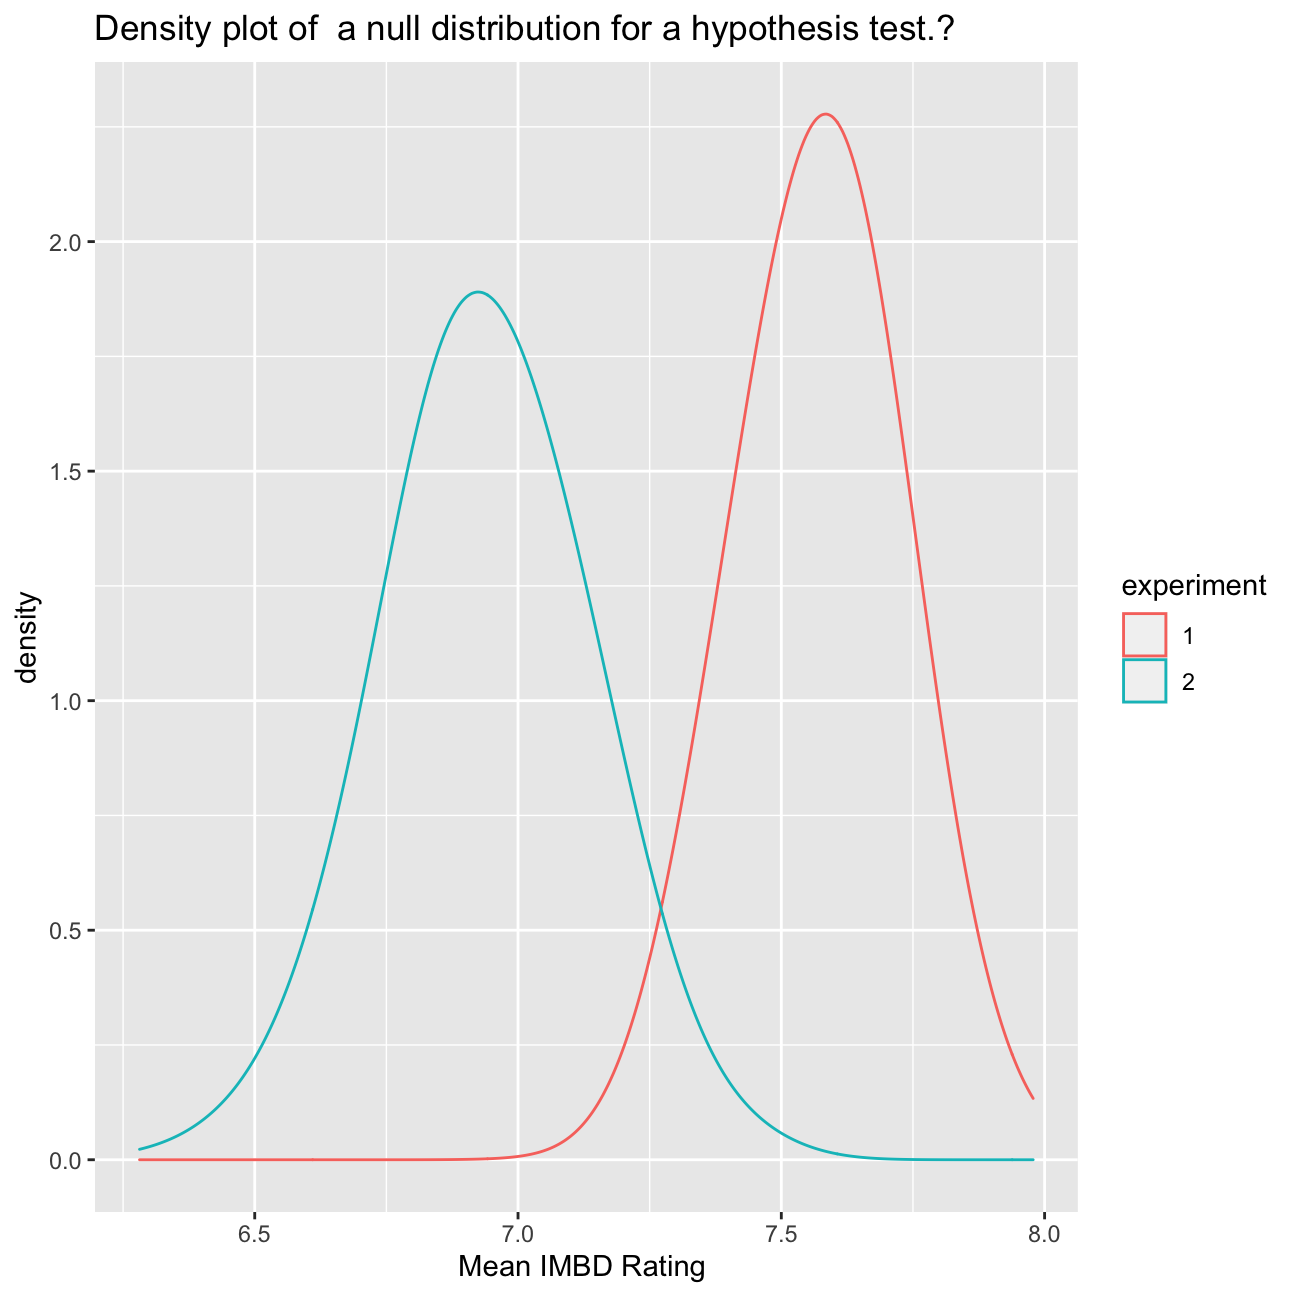
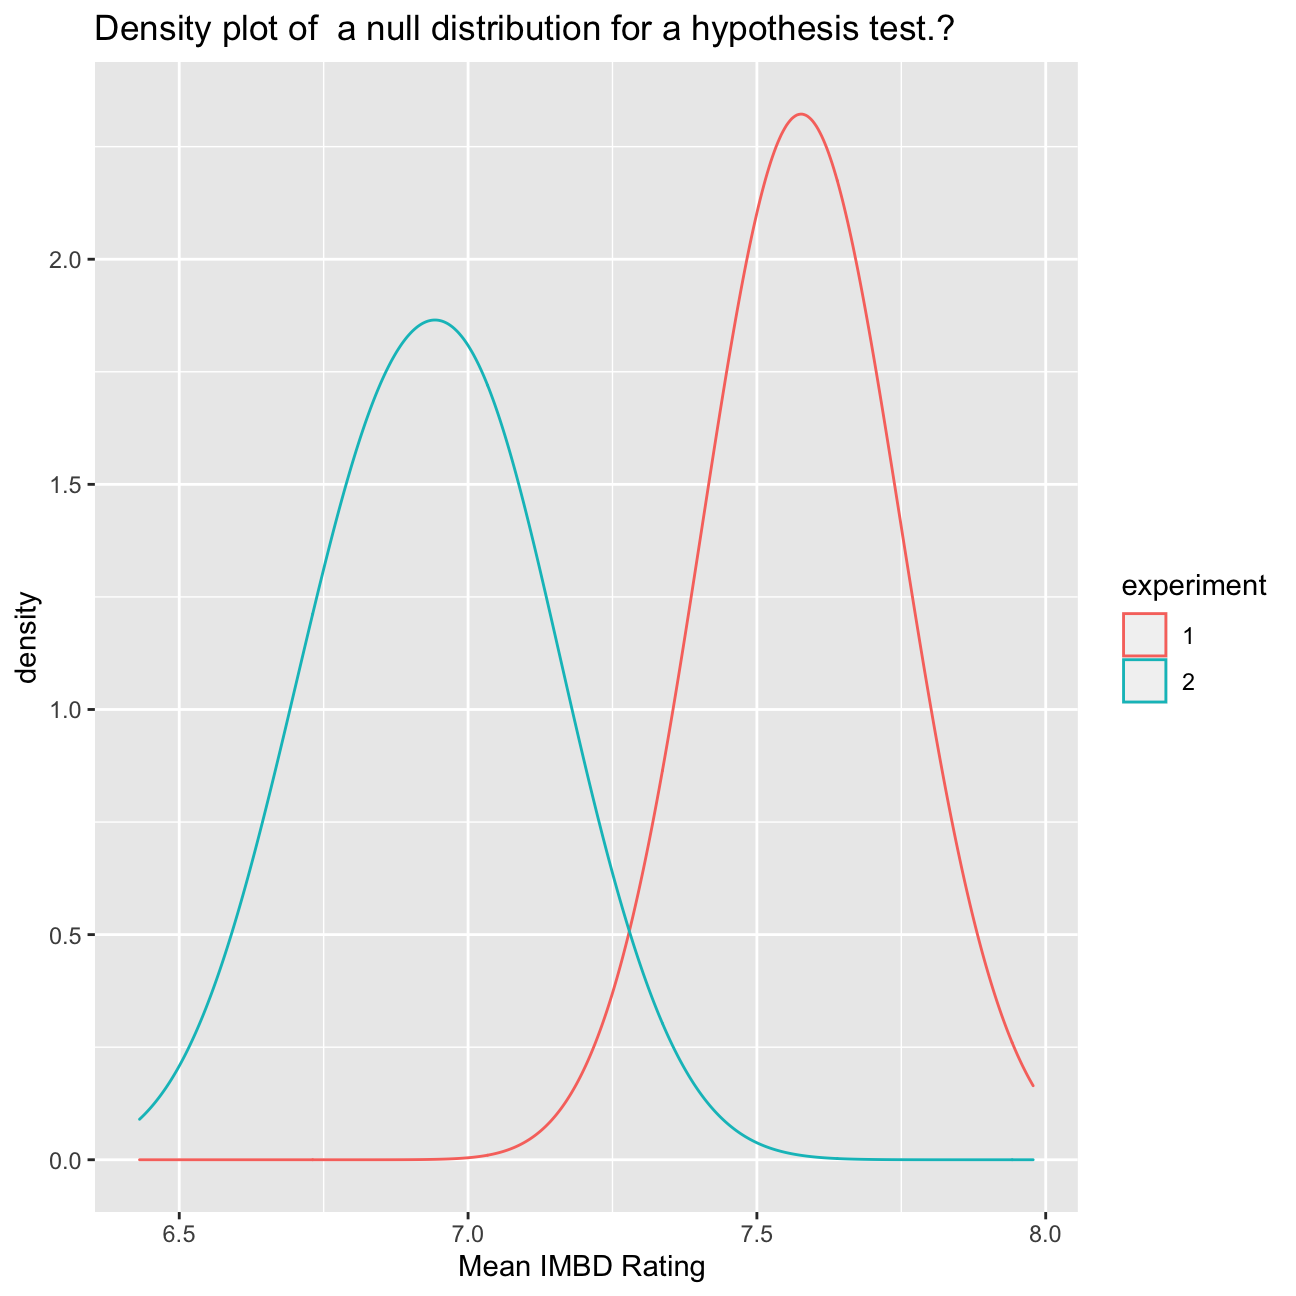
Upload

diff --git a/content/projects/project2/index.html b/content/projects/project2/index.html
@@ -1,6 +1,6 @@
 ---
-title: "Session 6: Homework 3"
-author: "Your name goes here"
+title: "IMDB Ratings"
+author: "Vincenz Mautner-Markhof"
 date: "2020-10-20"
 output:
   html_document:
@@ -14,16 +14,7 @@ output:
 
 
 
-<div id="imdb-ratings-differences-between-directors" class="section level1">
-<h1>IMDB ratings: Differences between directors</h1>
-<p>Recall the IMBD ratings data. I would like you to explore whether the mean IMDB rating for Steven Spielberg and Tim Burton are the same or not. I have already calculated the confidence intervals for the mean ratings of these two directors and as you can see they overlap.</p>
-<p><img src="/Users/vincenz/Public/my_website/images/directors.png" width="100%" style="display: block; margin: auto;" /></p>
-<p>First, I would like you to reproduce this graph. You may find <code>geom_errorbar()</code> and <code>geom_rect()</code> useful.</p>
-<p>In addition, you will run a hpothesis test. You should use both the <code>t.test</code> command and the <code>infer</code> package to simulate from a null distribution, where you assume zero difference between the two.</p>
-<blockquote>
-<p>Before anything, write down the null and alternative hypotheses, as well as the resulting test statistic and the associated t-stat or p-value. At the end of the day, what do you conclude?</p>
-</blockquote>
-<p>You can load the data and examine its structure</p>
+<p>In this analysis we will explore whether the mean IMDB rating for Steven Spielberg and Tim Burton are the same or not.</p>
 <pre class="r"><code>movies &lt;- read_csv(&quot;movies.csv&quot;)
 glimpse(movies)</code></pre>
 <pre><code>## Rows: 2,961
@@ -39,7 +30,6 @@ glimpse(movies)</code></pre>
 ## $ votes               &lt;dbl&gt; 886204, 793059, 418214, 995415, 1676169, 534658, …
 ## $ reviews             &lt;dbl&gt; 3777, 2843, 1934, 2425, 5312, 3917, 1752, 1752, 3…
 ## $ rating              &lt;dbl&gt; 7.9, 7.7, 7.0, 8.1, 9.0, 6.5, 8.7, 7.5, 8.5, 7.2,…</code></pre>
-<p>Your R code and analysis should go here. If you want to insert a blank chunk of R code you can just hit <code>Ctrl/Cmd+Alt+I</code></p>
 <pre class="r"><code>movies_rating&lt;-movies%&gt;%filter(director %in% c(&quot;Steven Spielberg&quot; , &quot;Tim Burton&quot; )) %&gt;% select(director,rating)
 
 
@@ -70,6 +60,7 @@ ggplot(CI_rating,
   theme_bw()+
   theme(legend.position = &quot;none&quot;)+ geom_text(aes(label=round(mean_rating,2),mean_rating=mean_rating+0.5),position = position_dodge(1.5),vjust = -1)</code></pre>
 <p><img src="index_files/figure-html/unnamed-chunk-1-1.png" width="648" style="display: block; margin: auto;" /></p>
+<p>Now we will run a hypothesis test using the ‘t.test’ command.</p>
 <pre class="r"><code>t.test(rating~director,data=movies_rating)</code></pre>
 <pre><code>## 
 ##  Welch Two Sample t-test
@@ -101,14 +92,14 @@ ex1_props %&gt;%
 <pre><code>## # A tibble: 1 x 1
 ##   variability
 ##         &lt;dbl&gt;
-## 1       0.141</code></pre>
+## 1       0.139</code></pre>
 <pre class="r"><code># Calculate variability of p-hat*
 ex2_props %&gt;% 
   summarize(variability = sd(stat))</code></pre>
 <pre><code>## # A tibble: 1 x 1
 ##   variability
 ##         &lt;dbl&gt;
-## 1       0.188</code></pre>
+## 1       0.180</code></pre>
 <pre class="r"><code># Combine data from both experiments
 both_ex_props &lt;- bind_rows(ex1_props, ex2_props, .id = &quot;experiment&quot;)
 
@@ -119,4 +110,3 @@ ggplot(both_ex_props, aes(stat, color = experiment)) +
   labs(x=&quot;Mean IMBD Rating &quot;,
        title=&quot;Density plot of  a null distribution for a hypothesis test.?&quot;)</code></pre>
 <p><img src="index_files/figure-html/unnamed-chunk-2-1.png" width="648" style="display: block; margin: auto;" /></p>
-</div>

diff --git a/content/projects/project1/index.html b/content/projects/project1/index.html
@@ -1,7 +1,7 @@
 ---
-title: "Titanic"
+title: "Sinking of the Titanic"
 author: "Vincenz Mautner-Markhof"
-date: "18/10/2020"
+date: "2020-10-20"
 output:
   html_document:
     theme: flatly
@@ -14,6 +14,7 @@ output:
 
 
 
+<p>While exploring the internet for interesting data I came across this dataset which gives information about the passengers on the Titanic, such as the class, age, sex and if they survived or not. In this analysis I will explore the survival rate across different variables.</p>
 <pre class="r"><code>titanic &lt;- read_csv(&quot;titanic.csv&quot;)
 glimpse(titanic)</code></pre>
 <pre><code>## Rows: 891
@@ -34,26 +35,26 @@ glimpse(titanic)</code></pre>
 titanic$Survived &lt;- as.factor(titanic$Survived)
 titanic$Sex &lt;- as.factor(titanic$Sex)
 titanic$Embarked &lt;- as.factor(titanic$Embarked)</code></pre>
-<p>What was the survival rate?</p>
+<p>Survival rate</p>
 <pre class="r"><code>prop.table(table(titanic$Survived))</code></pre>
 <pre><code>## 
 ##     0     1 
 ## 0.616 0.384</code></pre>
-<p>What was the survival rate by gender?</p>
+<p>Survival rate by gender</p>
 <pre class="r"><code>ggplot(titanic, aes(x = Sex, fill = Survived)) + 
   theme_bw() +
   geom_bar() +
   labs(y = &quot;Passenger Count&quot;,
        title = &quot;Titanic Survival Rates by Sex&quot;)</code></pre>
 <p><img src="index_files/figure-html/unnamed-chunk-3-1.png" width="648" style="display: block; margin: auto;" /></p>
-<p>What was the survival rate by class of ticket?</p>
+<p>Survival rate by class of ticket</p>
 <pre class="r"><code>ggplot(titanic, aes(x = Pclass, fill = Survived)) + 
   theme_bw() +
   geom_bar() +
   labs(y = &quot;Passenger Count&quot;,
        title = &quot;Titanic Survival Rates by Pclass&quot;)</code></pre>
 <p><img src="index_files/figure-html/unnamed-chunk-4-1.png" width="648" style="display: block; margin: auto;" /></p>
-<p>What was the survival rate by class of ticket and gender?</p>
+<p>Survival rate by class of ticket and gender</p>
 <pre class="r"><code>ggplot(titanic, aes(x = Sex, fill = Survived)) + 
   theme_bw() +
   facet_wrap(~ Pclass) +
@@ -61,7 +62,7 @@ titanic$Embarked &lt;- as.factor(titanic$Embarked)</code></pre>
   labs(y = &quot;Passenger Count&quot;,
        title = &quot;Titanic Survival Rates by Pclass and Sex&quot;)</code></pre>
 <p><img src="index_files/figure-html/unnamed-chunk-5-1.png" width="648" style="display: block; margin: auto;" /></p>
-<p>What is the distribution of passenger ages?</p>
+<p>Distribution of passenger ages</p>
 <pre class="r"><code>ggplot(titanic, aes(x = Age)) +
   theme_bw() +
   geom_histogram(binwidth = 5) +
@@ -69,7 +70,7 @@ titanic$Embarked &lt;- as.factor(titanic$Embarked)</code></pre>
        x = &quot;Age (binwidth = 5)&quot;,
        title = &quot;Titanic Age Distribtion&quot;)</code></pre>
 <p><img src="index_files/figure-html/unnamed-chunk-6-1.png" width="648" style="display: block; margin: auto;" /></p>
-<p>What are the survival rates by age?</p>
+<p>Survival rates by age</p>
 <pre class="r"><code>ggplot(titanic, aes(x = Age, fill = Survived)) +
   theme_bw() +
   geom_histogram(binwidth = 5) +
@@ -85,7 +86,7 @@ titanic$Embarked &lt;- as.factor(titanic$Embarked)</code></pre>
        x = &quot;Survived&quot;,
        title = &quot;Titanic Survival Rates by Age, Pclass and Sex&quot;)</code></pre>
 <p><img src="index_files/figure-html/unnamed-chunk-8-1.png" width="648" style="display: block; margin: auto;" /></p>
-<p>What is the survival rates by age when segmented by gender and class of ticket?</p>
+<p>Survival rates by age segmented by gender and class of ticket</p>
 <pre class="r"><code>ggplot(titanic, aes(x = Age, fill = Survived)) +
   theme_bw() +
   facet_wrap(Sex ~ Pclass) +

diff --git a/content/projects/project3/index.html b/content/projects/project3/index.html
@@ -2,7 +2,6 @@
 title: "yield Curve Inversion"
 author: "Vincenz Mautner-Markhof"
 date: "2020-10-20"
-image: projects/project3_image.jpeg
 output:
   html_document:
     theme: flatly
